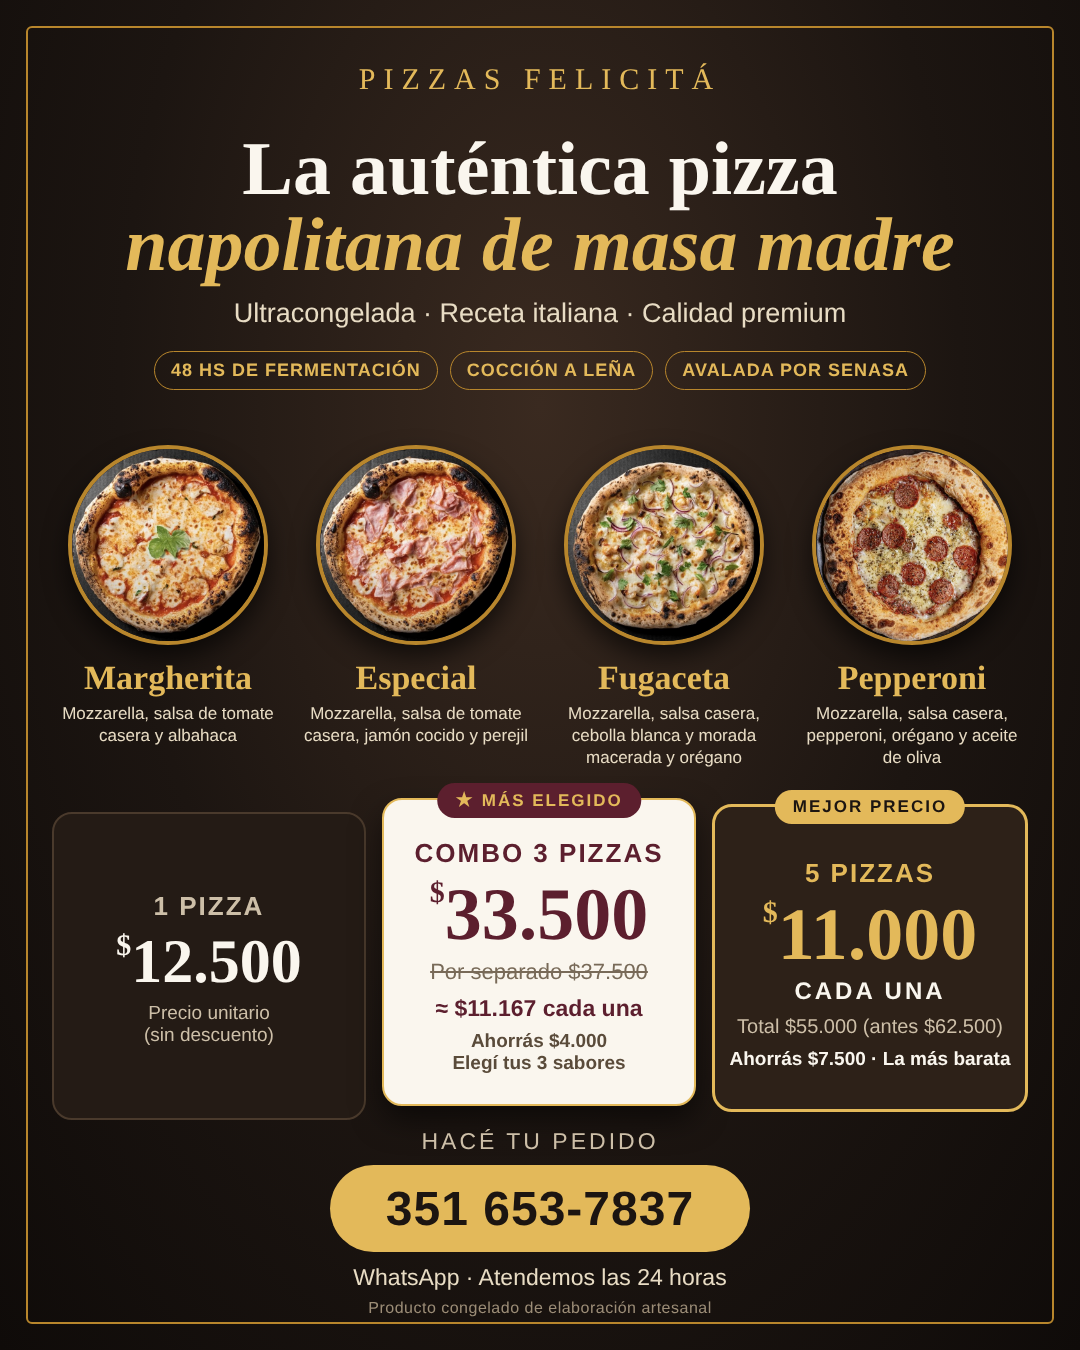
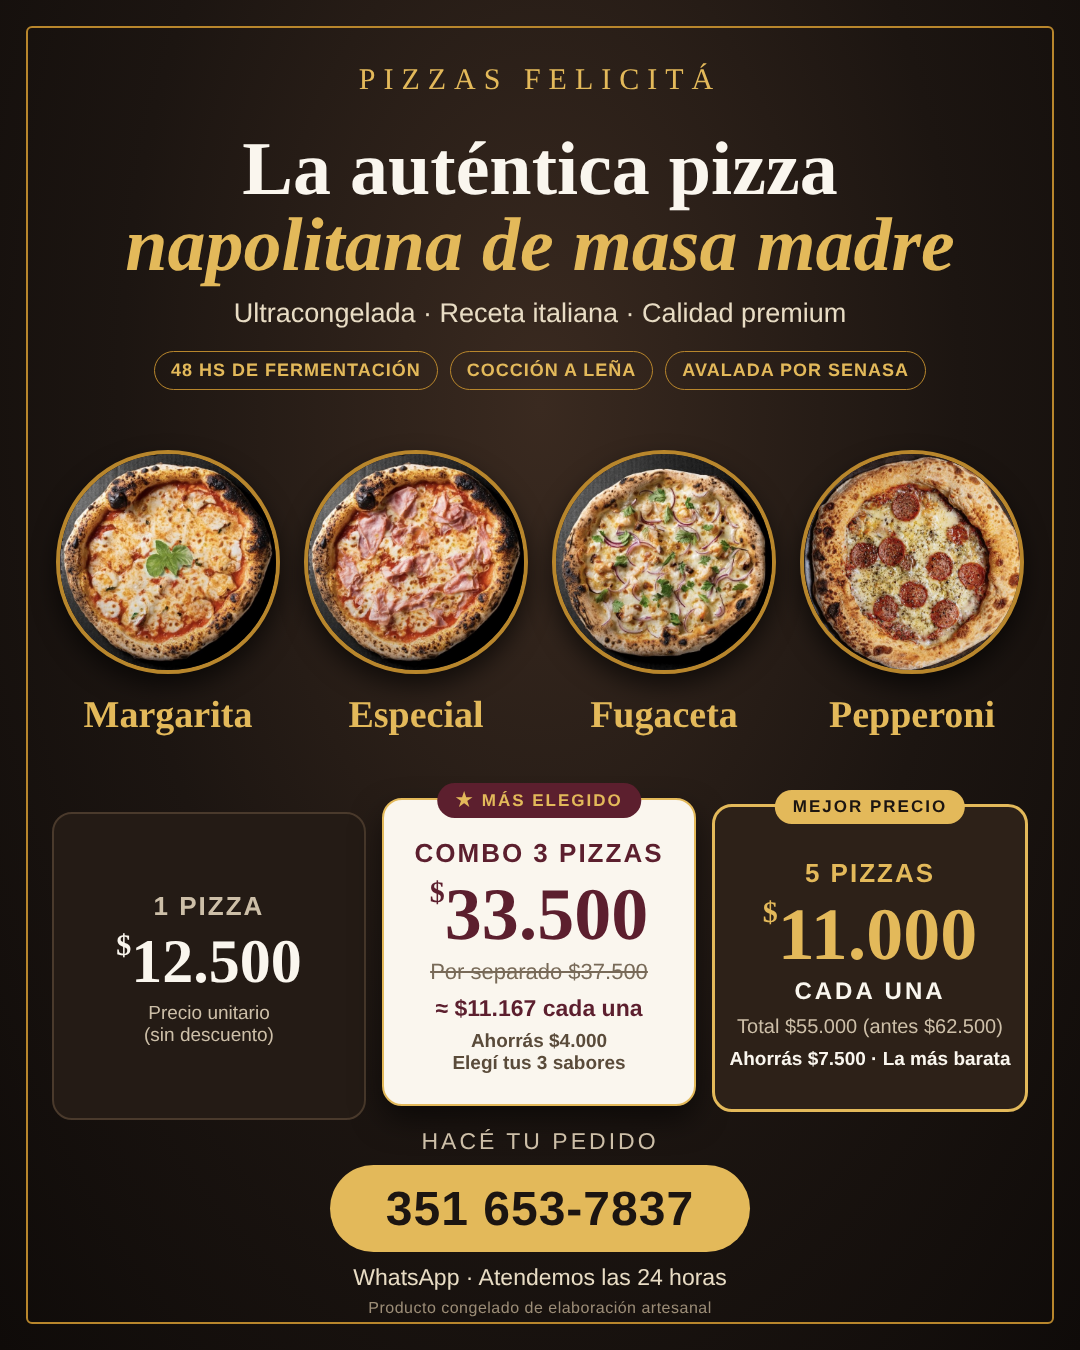
Flyer: solo nombres de sabores, sin ingredientes
Claude-Session: https://claude.ai/code/session_0197My5JwpLuuBot4mcBVY7K

Changed region(s): [[0.0306, 0.3111, 0.9472, 0.5911]]

diff --git a/flyer/flyer-pizzas.html b/flyer/flyer-pizzas.html
@@ -14,11 +14,11 @@ h1 em{color:var(--gold)}
 .sub{font-size:27px;margin-top:16px;color:#e8dcc4}
 .seals{display:flex;justify-content:center;gap:12px;margin-top:22px}
 .seals span{border:1.5px solid var(--gold-d);color:var(--gold);font-size:18px;font-weight:700;letter-spacing:1px;padding:8px 16px;border-radius:30px;text-transform:uppercase}
-.pizzas{position:absolute;top:445px;left:0;width:100%;display:flex;justify-content:center;gap:16px;padding:0 52px}
+.pizzas{position:absolute;top:450px;left:0;width:100%;display:flex;justify-content:center;gap:16px;padding:0 52px}
 .card{flex:1;text-align:center}
-.ph{width:200px;height:200px;border-radius:50%;margin:0 auto;border:4px solid var(--gold-d);overflow:hidden;box-shadow:0 12px 24px rgba(0,0,0,.6)}
+.ph{width:224px;height:224px;border-radius:50%;margin:0 auto;border:4px solid var(--gold-d);overflow:hidden;box-shadow:0 12px 24px rgba(0,0,0,.6)}
 .ph img{width:100%;height:100%;object-fit:cover;display:block}
-.card h3{font-family:Georgia,serif;font-size:34px;margin-top:14px;color:var(--gold)}
+.card h3{font-family:Georgia,serif;font-size:38px;margin-top:18px;color:var(--gold)}
 .card p{font-size:17px;line-height:1.3;margin-top:6px;color:#e8dcc4}
 .plans{position:absolute;top:812px;left:52px;right:52px;display:flex;gap:16px;align-items:stretch}
 .plan{flex:1;min-height:268px;display:flex;flex-direction:column;justify-content:center;background:#241b15;border:2px solid #4a3a2c;border-radius:20px;text-align:center;padding:26px 10px 22px}
@@ -54,10 +54,10 @@ h1 em{color:var(--gold)}
 </div>
 
 <div class="pizzas">
-  <div class="card"><div class="ph"><img src="img/margherita.jpg"></div><h3>Margherita</h3><p>Mozzarella, salsa de tomate casera y albahaca</p></div>
-  <div class="card"><div class="ph"><img src="img/especial.jpg"></div><h3>Especial</h3><p>Mozzarella, salsa de tomate casera, jamón cocido y perejil</p></div>
-  <div class="card"><div class="ph"><img src="img/fugaceta.jpg"></div><h3>Fugaceta</h3><p>Mozzarella, salsa casera, cebolla blanca y morada macerada y orégano</p></div>
-  <div class="card"><div class="ph"><img src="img/pepperoni.jpg"></div><h3>Pepperoni</h3><p>Mozzarella, salsa casera, pepperoni, orégano y aceite de oliva</p></div>
+  <div class="card"><div class="ph"><img src="img/margherita.jpg"></div><h3>Margarita</h3></div>
+  <div class="card"><div class="ph"><img src="img/especial.jpg"></div><h3>Especial</h3></div>
+  <div class="card"><div class="ph"><img src="img/fugaceta.jpg"></div><h3>Fugaceta</h3></div>
+  <div class="card"><div class="ph"><img src="img/pepperoni.jpg"></div><h3>Pepperoni</h3></div>
 </div>
 
 <div class="plans">
